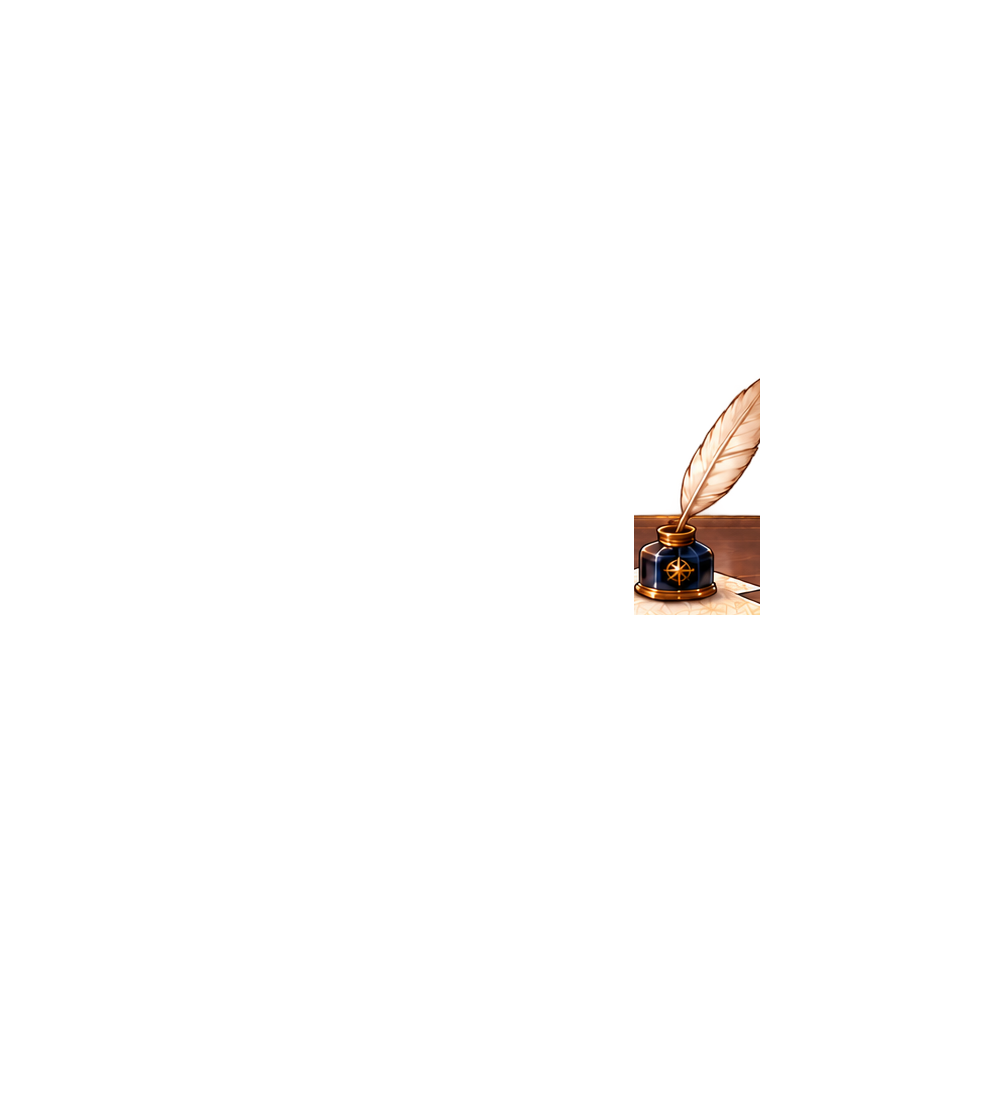
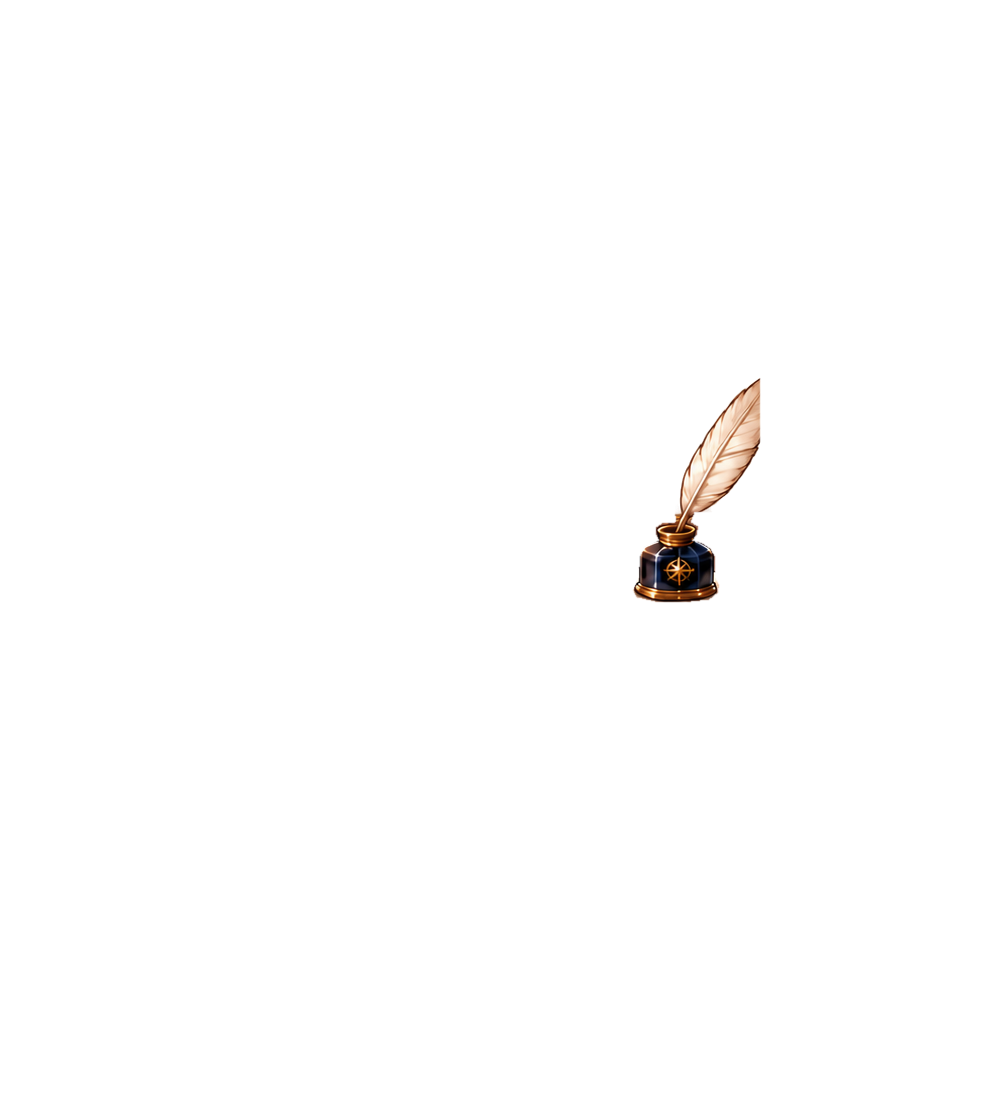
第一步完成：角色位置按用户调整（230, -17, 0.96），前景层改为只取羽毛笔墨水瓶形状

Changed region(s): [[0.62, 0.4375, 0.775, 0.5625]]

diff --git a/brand-override/skin.css b/brand-override/skin.css
@@ -465,7 +465,11 @@ $SKIN [data-sidebar-right-panel="push"][data-sidebar-right-open="true"] {
  * 「固定书桌 + 人物层」（陪伴栏带 data-layered，第九步）：每个表情一组 = 书桌 desk-fixed（截在栏内）+ 人物层 + 前景，整组交叉渐变；
  * 人物层 char-*（tools/char_layers.py 由 relit3 立绘生成）不截，伸出栏外的头发直接盖住对话框，不再需要头发条。
  * 人物层是立绘坐标（1199×1312，底部多 40px 放阴影，共 1352），按立绘框放：左 = 立绘左，宽 = 立绘宽，
- * 上 = 合成图上沿 − 3 / 1120 × 合成图高（立绘左上角在合成图 (174, −3)），高 = 立绘高 × 1352 / 1312。
+ * 摆放参数在 tools/char_layers.py：立绘左上角在合成图 (FIG_X, FIG_Y) = (230, −17)，缩放 FIG_SCALE = 0.96
+ * （用户手动调过：比 round14 缩小 4%、上提，否则腰露在桌面上、像从桌子里长出来）。合成图 1px = 0.0017936 × 立绘宽（横）
+ * = 0.0016391 × 立绘高（竖），所以：左 = 合成图左 + 230 × 0.0017936 × 立绘宽 = --dsh-ch-x + 0.1004 × 立绘宽；
+ * 宽 = 1199 × 0.465 × 0.96 × 0.0017936 × 立绘宽 = 0.96 × 立绘宽；上 = 合成图上沿 − 17 × 0.0016391 × 立绘高；
+ * 高 = 1352 × 0.465 × 0.96 × 0.0016391 × 立绘高 = 0.9892 × 立绘高。改参数时这四个数要一起改。
  * 书桌 desk-fixed 和羽毛笔、墨水瓶 desk-front 是合成图坐标（1000×1120），和以前的合成图同一位置。 */
 $SKIN [data-dsh-academy-rail][data-combo],
 $SKIN [data-dsh-academy-desk-back] {
@@ -511,10 +515,10 @@ $SKIN [data-dsh-academy-rail][data-combo] .dsh-academy-combo-front {
 }
 $SKIN [data-dsh-academy-rail][data-layered] .dsh-academy-character,
 $SKIN [data-dsh-academy-rail][data-layered] .dsh-academy-combo-shadow {
-  top: calc(104px - var(--dsh-ch-h) * 0.0098);
-  left: var(--dsh-ch-x);
-  width: var(--dsh-ch-w);
-  height: calc(var(--dsh-ch-h) * 1.0305);
+  top: calc(104px - var(--dsh-ch-h) * 0.0328);   /* 合成图上沿（104px − 0.0049 × 立绘高）− 17 × 0.0016391 × 立绘高 */
+  left: calc(var(--dsh-ch-x) + var(--dsh-ch-w) * 0.1004);
+  width: calc(var(--dsh-ch-w) * 0.96);
+  height: calc(var(--dsh-ch-h) * 0.9892);
   clip-path: none;
 }
 /* 桌面投影（shadow-*.png，和人物层同一位置、半分辨率）：偏肉色的乘色，正片叠底到书桌上，像漫画的阴影而不是一层黑 */

diff --git a/tools/char_layers.py b/tools/char_layers.py
@@ -21,7 +21,7 @@ import sys
 from pathlib import Path
 
 import numpy as np
-from PIL import Image
+from PIL import Image, ImageDraw
 from scipy import ndimage
 
 DIR = Path(__file__).resolve().parent.parent / 'assets' / 'combo'
@@ -37,15 +37,21 @@ AO_TINT = (0.93, 0.80, 0.80)                 # 乘满时：肤色 (250,215,195) 
 SHADOW_TINT = (214, 160, 150)                # 桌面投影的乘色（页面里 mix-blend-mode: multiply），米色书页上约 (206,160,136)
 SHADOW_MAX = 0.75
 THUMB_BOX = tuple(v * S for v in (34, 77, 944, 987))   # 头部框，和以前合成图缩略图的框是同一处
-FRONT_BOX = (634, 330, 760, 615)  # 羽毛笔和墨水瓶（合成图坐标）
+FRONT_BOX = (634, 330, 760, 615)  # 羽毛笔和墨水瓶所在范围（合成图坐标）
+# 墨水瓶轮廓和插进瓶口的那段笔杆（书桌原图 1405 宽坐标；固定书桌不变，所以用固定多边形）。
+# 前景层只取物件本身：以前取整个矩形，角色右移后矩形里的木纹会盖住袖子和头发（竖着切一刀）
+INKWELL = [(906, 527), (912, 523), (925, 522), (940, 522), (947, 526), (946, 534), (941, 540), (951, 543), (959, 548),
+           (964, 556), (964, 576), (968, 584), (967, 592), (958, 599), (940, 601), (905, 601), (887, 597), (883, 590),
+           (886, 583), (889, 576), (890, 556), (895, 547), (904, 543), (909, 540), (906, 534)]
+QUILL_SHAFT = [(925, 504), (946, 504), (938, 527), (926, 527)]
 # 角色在书桌上的摆放（只改这三个数；陪伴栏的 skin.css 合成图段要按同样的数换算，见那里的注释）
-FIG_X, FIG_Y = 174, -28   # 立绘左上角在合成图里的位置。round14 是 (174, −3)；relit3 的身体比 round14 长约 25px，
+FIG_X, FIG_Y = 230, -17   # 立绘左上角在合成图里的位置。round14 是 (174, −3)；relit3 的身体比 round14 长约 25px，
                           # 放在 −3 时腰和衬衫下摆露在桌面上、像从桌子里长出来（用户反馈），上提 25px
-FIG_SCALE = 1.0           # 角色相对 round14 的缩放（1.0 = 立绘坐标 × 0.465）
+FIG_SCALE = 0.96           # 角色相对 round14 的缩放（1.0 = 立绘坐标 × 0.465）
 FIG_K = 0.465 * FIG_SCALE # 立绘坐标 → 合成图坐标
 DESK_BACK = 515           # 固定书桌桌面后沿（合成图坐标）
 EDGE = round(((DESK_BACK - FIG_Y) / FIG_K + 3) * S)   # 桌面后沿换成立绘坐标（relit3 原图），加 3px 余量
-CANVAS_DY = 0             # 只用于给 GPT 的输入图：整张画面往下移的像素（角色上提后呆毛会超出画布顶部）
+CANVAS_DY = 27             # 只用于给 GPT 的输入图：整张画面往下移的像素（角色上提后呆毛会超出画布顶部）
 
 
 def char_layer(src, shade=True):
@@ -93,17 +99,39 @@ def char_layer(src, shade=True):
     return layer, shadow
 
 
+def front_mask(full):
+    """羽毛笔 + 墨水瓶的形状（书桌原图 1405×1120 坐标）。羽毛笔：桌面后沿以上书桌图里不透明的部分
+    （去掉后沿那条细边）；墨水瓶和瓶口笔杆：固定多边形。"""
+    a = np.asarray(full)[..., 3]
+    h, w = a.shape
+    yy = np.arange(h)[:, None] * np.ones((1, w), int)
+    xx = np.arange(w)[None, :] * np.ones((h, 1), int)
+    x1, y1, x2, y2 = FRONT_BOX
+    box = (xx >= x1 + 250) & (xx < x2 + 250) & (yy >= y1) & (yy < y2)
+    quill = (a > 20) & (yy < DESK_BACK - 3) & box
+    quill = ndimage.binary_propagation(ndimage.binary_opening(quill, iterations=3), mask=quill)
+    poly = Image.new('L', (w, h), 0)
+    for pts in (INKWELL, QUILL_SHAFT):
+        ImageDraw.Draw(poly).polygon(pts, fill=255)
+    m = quill | (np.asarray(poly) > 0)
+    return ndimage.gaussian_filter(m.astype(float), 0.6)   # 软边，0–1
+
+
+def front_layer(full):
+    a = np.asarray(full).astype(float).copy()
+    a[..., 3] *= front_mask(full)
+    return Image.fromarray(a.astype('uint8'))
+
+
 def desk_layers(src):
     d = Image.open(src).convert('RGBA')
     if d.size != (1405, 1120):
         raise SystemExit(f'desk 尺寸应为 1405×1120，实际 {d.size}')
-    a = np.asarray(d.crop((250, 0, 1250, 1120))).copy()
+    a = np.asarray(d).copy()
     a[..., 3] = np.where(a[..., 3] >= 240, 255, a[..., 3])   # GPT 给的主体 alpha 是 245–254
-    Image.fromarray(a).save(DIR / 'desk-fixed.png', optimize=True)
-    front = np.zeros_like(a)
-    x1, y1, x2, y2 = FRONT_BOX
-    front[y1:y2, x1:x2] = a[y1:y2, x1:x2]
-    Image.fromarray(front).save(DIR / 'desk-front.png', optimize=True)
+    full = Image.fromarray(a)
+    full.crop((250, 0, 1250, 1120)).save(DIR / 'desk-fixed.png', optimize=True)
+    front_layer(full).crop((250, 0, 1250, 1120)).save(DIR / 'desk-front.png', optimize=True)
     print('wrote', DIR / 'desk-fixed.png', DIR / 'desk-front.png')
 
 
@@ -117,9 +145,7 @@ def compose_inputs(src, override, desk, out):
     fa = np.asarray(full).copy()
     fa[..., 3] = np.where(fa[..., 3] >= 240, 255, fa[..., 3])
     full = Image.fromarray(fa)
-    x1, y1, x2, y2 = FRONT_BOX
-    front = Image.new('RGBA', full.size, (0, 0, 0, 0))
-    front.paste(full.crop((x1 + 250, y1, x2 + 250, y2)), (x1 + 250, y1))
+    front = front_layer(full)
     for key, name in SOURCES.items():
         path = Path(src) / f'{name}.png'
         if override and (Path(override) / f'{name}.png').exists():

diff --git a/docs/修改记录.md b/docs/修改记录.md
@@ -209,6 +209,15 @@ osascript -e 'quit app "DeepSeek Harness"' && open -a "DeepSeek Harness"
 
 ## 五、版本记录
 
+### 2026-10-04 · 第一步完成：角色位置按用户手动调整（Codex 定参数），前景层改为物件形状
+
+- 备份：`backup/codex角色摆放-20261004-074814`（Codex）、`backup/前景层改为物件形状前-20261004-080901`。
+- Codex 按 `<素材目录>/round17/第一步-codex-位置-提示词.md` 只改了 `tools/char_layers.py` 顶部参数：`FIG_X, FIG_Y = 230, −17`，`FIG_SCALE = 0.96`，`CANVAS_DY = 27`。验收：四张呆毛离画布上沿 10–13px、桌脚离下沿 53px；桌沿切在胸口下方，开心表情桌沿下只露约 35px 衬衫下摆；默认、眨眼的手压在大书上，好奇的笔尖落在书页上。
+- 发现并修复（脚本原有的问题）：羽毛笔墨水瓶前景层原来是书桌上的一个矩形，角色右移后矩形里的木纹盖住了右袖和头发（竖着切一刀）。改成只取物件形状：羽毛笔按书桌图在桌面后沿以上的不透明部分（开运算去掉后沿细边），墨水瓶和瓶口笔杆用固定多边形（`INKWELL`、`QUILL_SHAFT`，书桌原图坐标），软边 0.6px。`desk-front.png` 和 `round17/输入/` 都已重新生成（`预览.png` 也更新了）。
+- 陪伴栏同步：`skin.css` 人物层和投影层改为 左 = `--dsh-ch-x` + 0.1004 × 立绘宽、宽 0.96 × 立绘宽、上 = 104px − 0.0328 × 立绘高、高 0.9892 × 立绘高（换算公式写在注释里，改参数时四个数要一起改）。人物层、投影、缩略图按新参数重跑。
+- 验证：build + verify 72/72，包体 6.84 MB；调试端口量得人物层 (968, 90, 384×432)，和按书桌层 (803, 102, 717 宽) 换算的结果一致；四个表情截图正常。截图 `/Volumes/LQ1000/陪伴栏-新位置.png`（本机）。
+- 下一步：第二步，GPT 按 `round17/第二步-GPT-阴影-提示词.md` 只加接触阴影，交付 `round18/`。
+
 ### 2026-10-04 · round17 准备：让 GPT 在拼好的图上统一光影
 
 - 备份：`backup/光影合成输入图前-20261004-062312`。

diff --git a/docs/交接说明.md b/docs/交接说明.md
@@ -92,7 +92,7 @@ node tools/devtools.mjs eval "<JS>"                               # 查 DOM
    - 阴影是漫画式的暖色：人物贴桌部分乘偏肉色，桌面投影是单独的 `shadow-*.png`、正片叠底（用户不要黑阴影）。
    - 切换：每个表情一整组（书桌 + 投影 + 人物 + 羽毛笔），新的一组 220ms 完整淡入后旧的再淡出（用户要求人和桌子一起切）。
    - **当前：分三步做光影**（用户决定，2026-10-04）。提示词都在 `<素材目录>/round17/`：
-     1. `第一步-codex-位置-提示词.md`：Codex 调 `tools/char_layers.py` 的 `FIG_X/FIG_Y/FIG_SCALE/CANVAS_DY`（用户手动调过一张：角色约缩小 4%、上提），重新生成 `round17/输入/`。Claude 验收后同步 `skin.css` 人物层位置（按这几个数换算）、重跑人物层、安装截图给用户确认。
+     1. **已完成**（参数 230, −17, 0.96, CANVAS_DY 27，陪伴栏已同步）`第一步-codex-位置-提示词.md`：Codex 调 `tools/char_layers.py` 的 `FIG_X/FIG_Y/FIG_SCALE/CANVAS_DY`（用户手动调过一张：角色约缩小 4%、上提），重新生成 `round17/输入/`。Claude 验收后同步 `skin.css` 人物层位置（按这几个数换算）、重跑人物层、安装截图给用户确认。
      2. `第二步-GPT-阴影-提示词.md`：GPT 只加接触阴影、颜色亮度不许改，交付 `round18/`。Claude 验收（对位、颜色差 ≤ 5、阴影暖粉不发黑），用蒙版合成到陪伴栏给用户看。
      3. `第三步-GPT-光泽感-提示词.md`：在 round18 上加左侧冷白窗光和头发逆光，交付 `round19/`。画不好的退路：Claude 用程序加亮边和颜色校正。
    - round17 第一批（`round17/combo-*.png`，按上提 25px 的输入画）验收结果：三张对位对、默认低了 25px 且呆毛和左耳有涂抹；全部偏黄偏暗、没有逆光；呆毛被画布切掉。不用。
